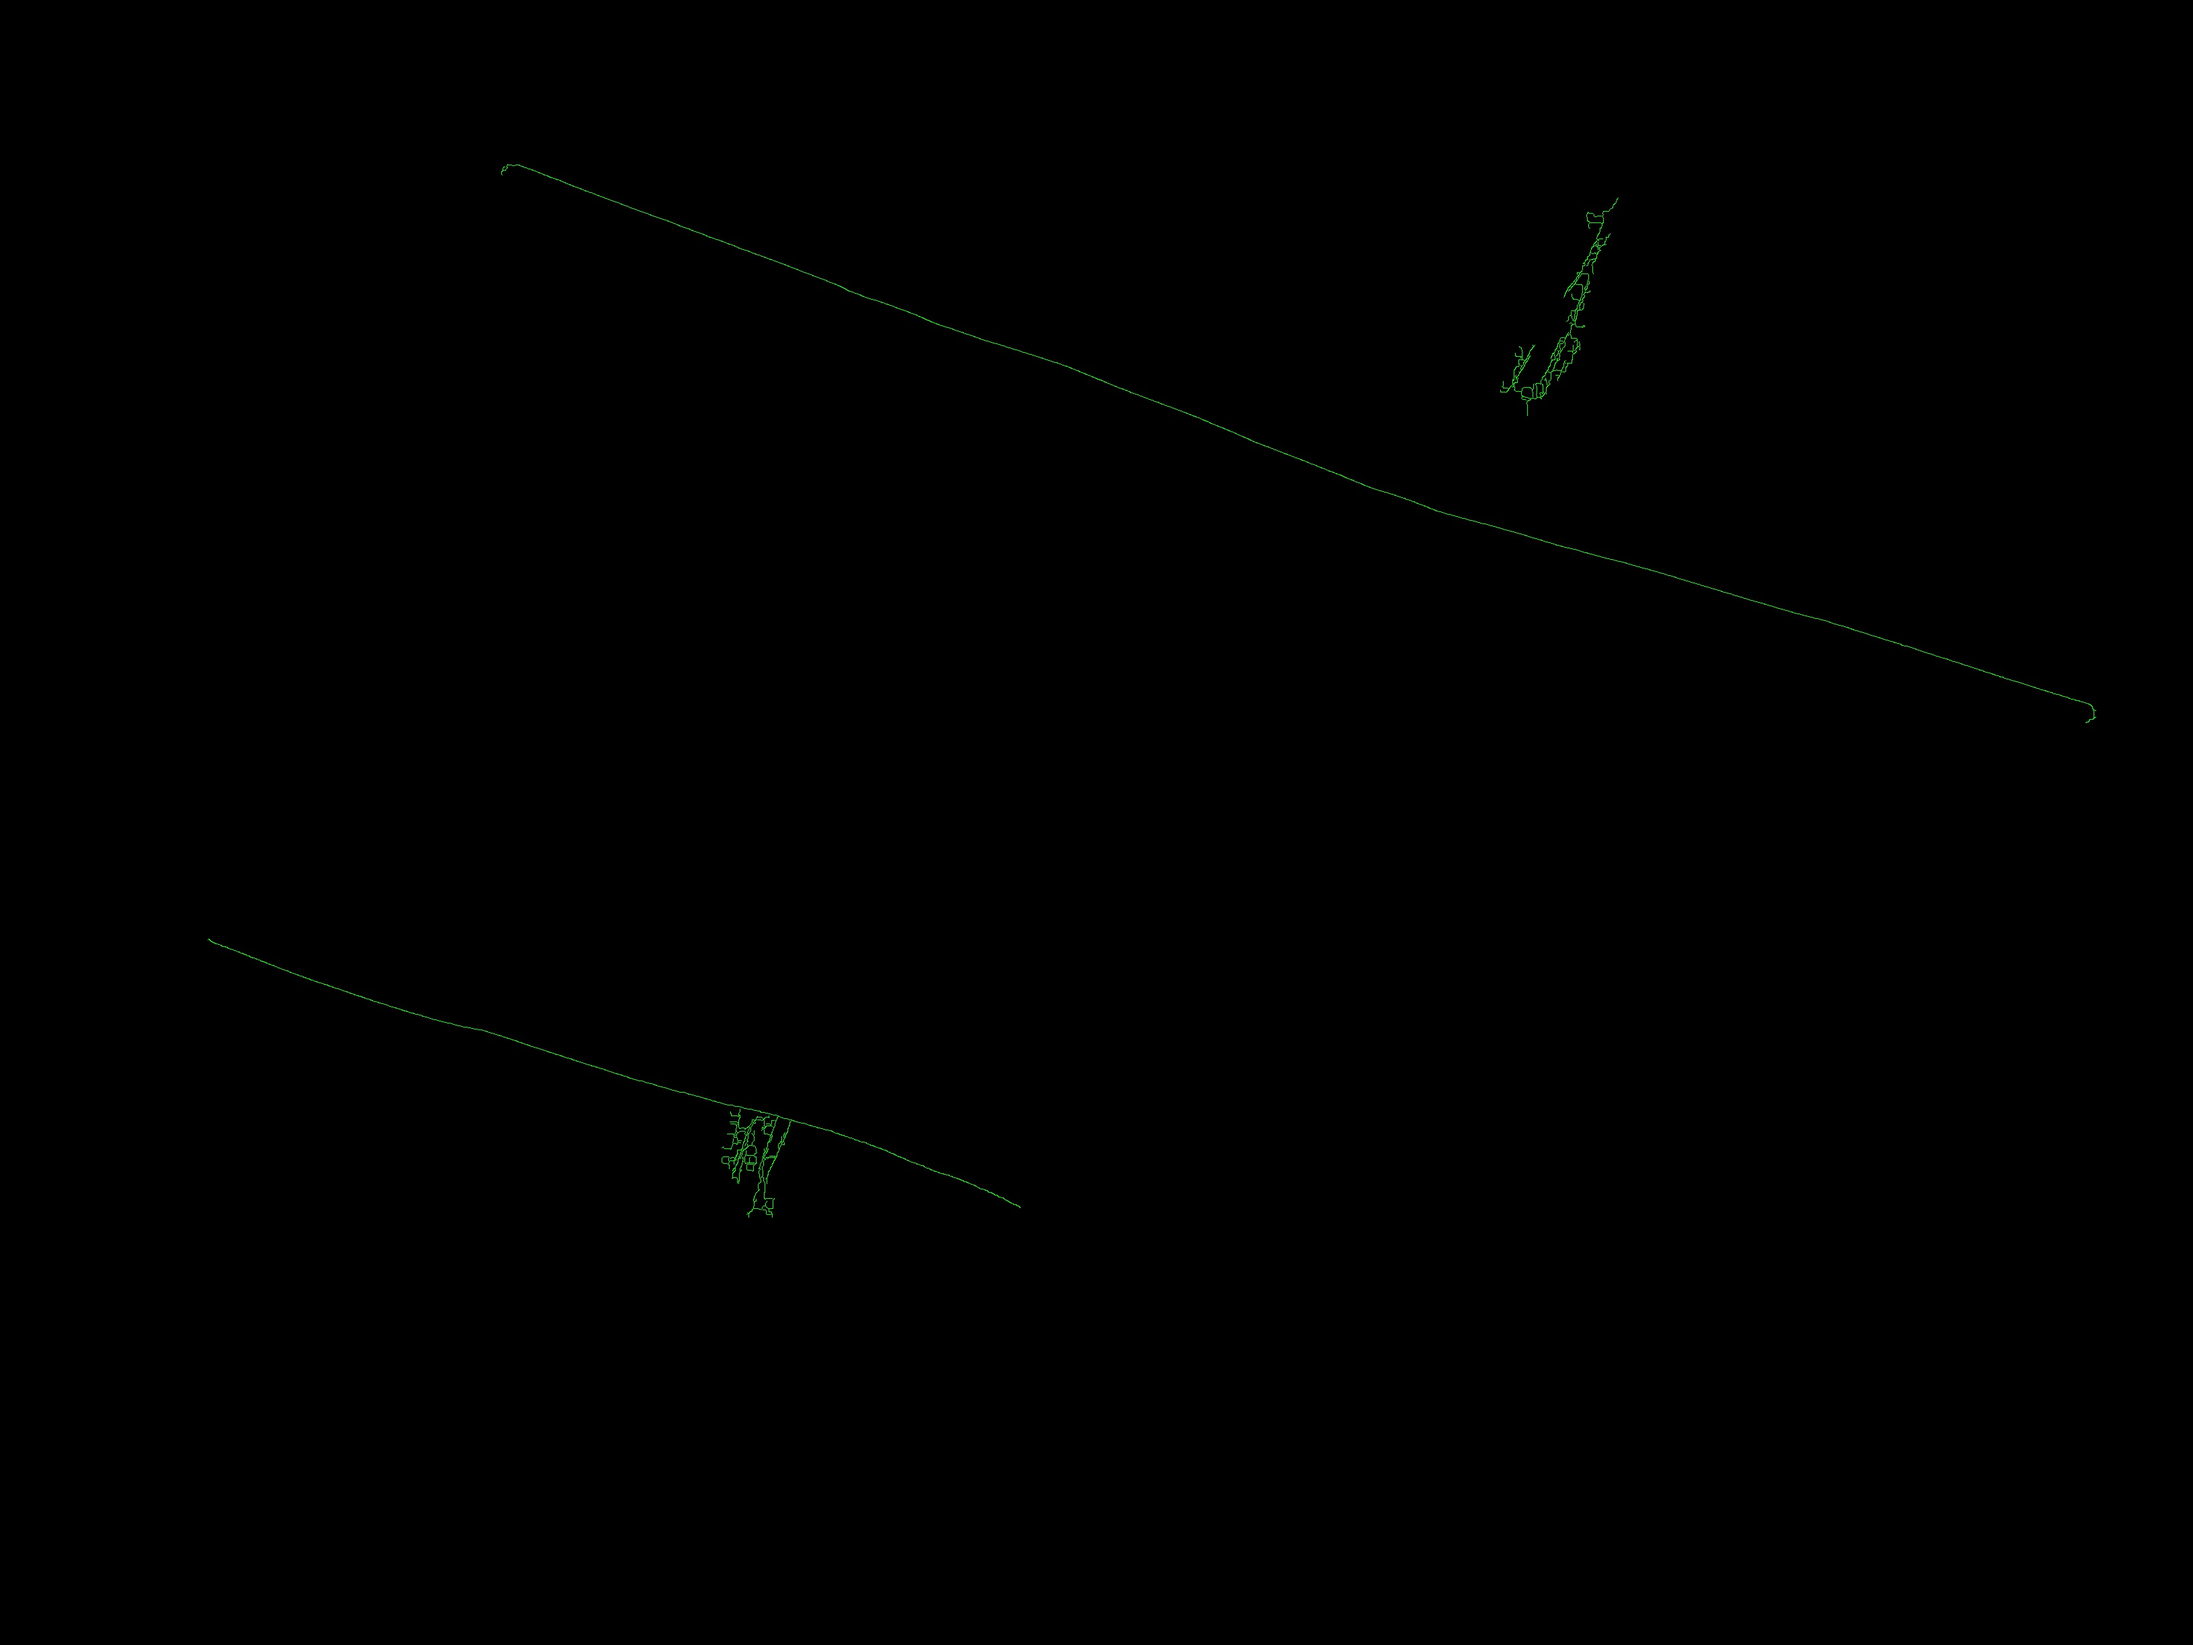
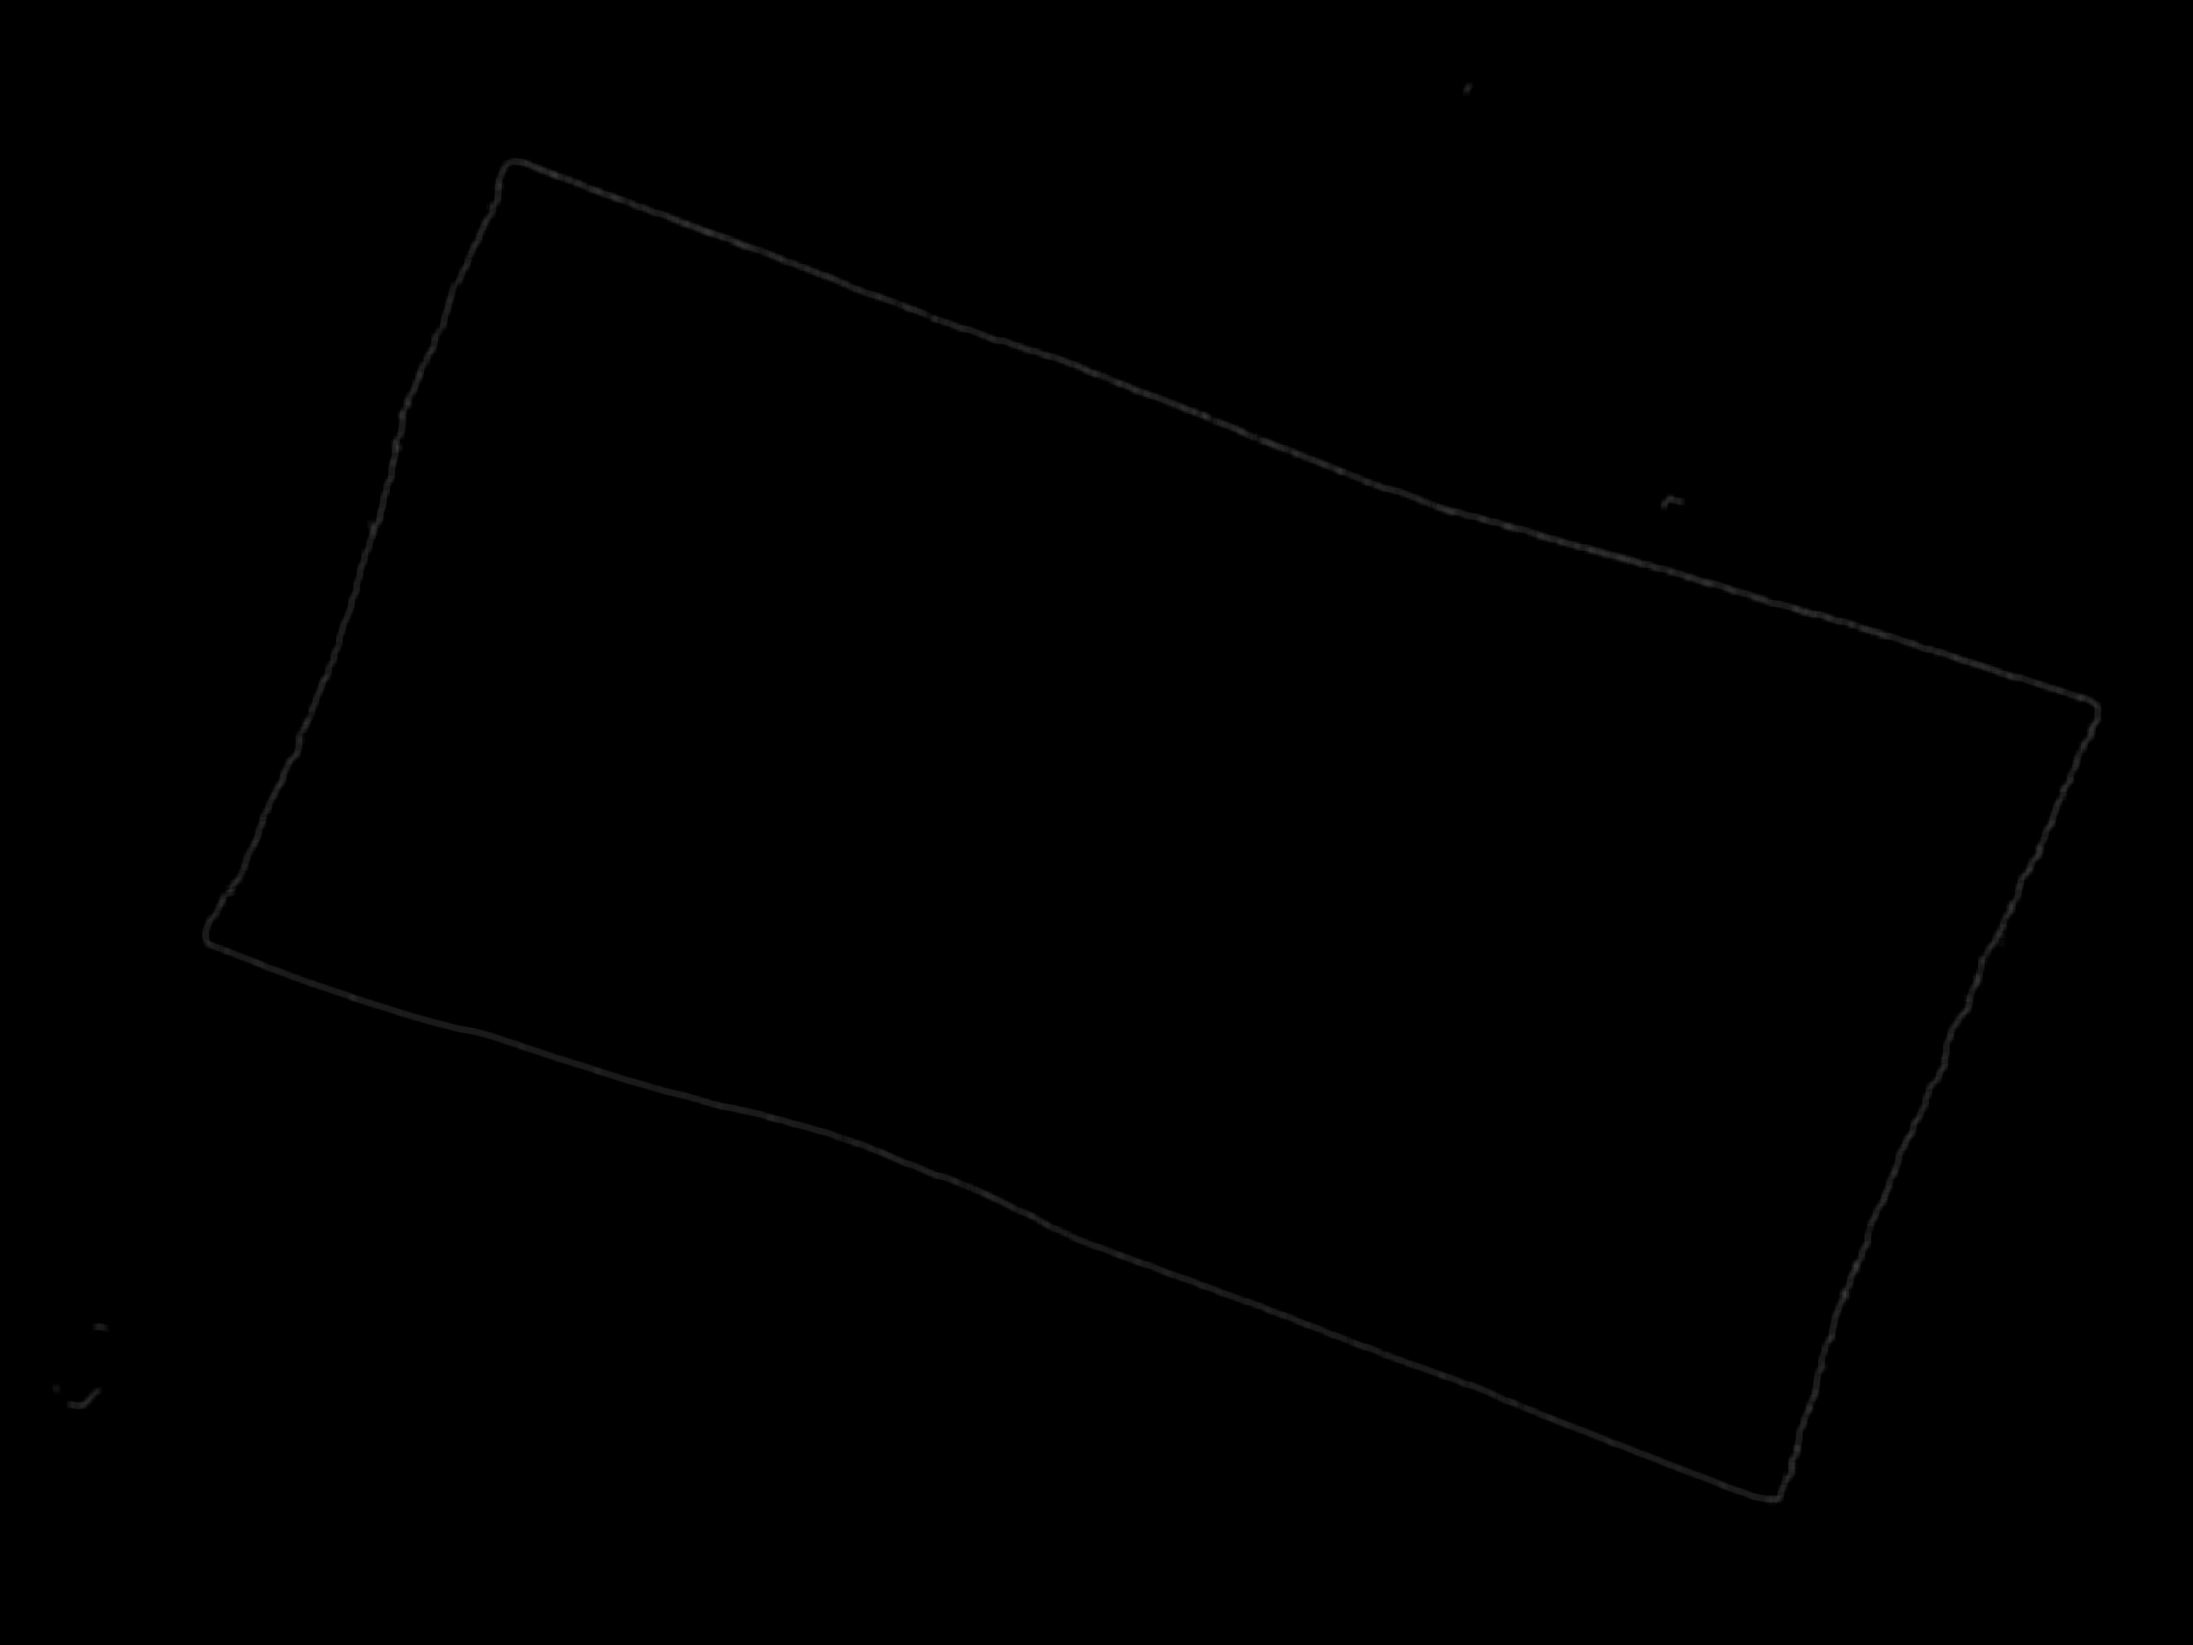
yep! for the first time -
thrust yourself only and dont give up!!! never!

youll make it!

may the force be with you

diff --git a/ocr/longest_closed.cc b/ocr/longest_closed.cc
@@ -18,21 +18,32 @@ using namespace std;
 void longest_closed()
 {
    Mat mat = imread( "./pics/heb.jpg");
+   // Mat mat = imread( "./pics/heb2.jpg");
+   // Mat mat = imread( "./pics/heb_new.jpg");
+   // Mat mat = imread( "./pics/pers.jpg");
+   // Mat mat = imread( "./pics/heb.ocv.working.jpg");
+   // Mat mat = imread( "./pics/tj.jpg");
+   // Mat mat = imread( "./pics/tj2.jpg");
 
    cv::cvtColor(mat, mat, CV_BGR2GRAY);
-   cv::GaussianBlur(mat, mat, cv::Size(3,3), 0);
-   // blur(mat, mat, Size(3,3));
-   cv::Mat kernel = cv::getStructuringElement(cv::MORPH_RECT, cv::Point(9,9));
+   // cv::GaussianBlur(mat, mat, cv::Size(3,3), 0);
+   // blur(mat, mat, Size(20,20));
+   cv::Mat kernel = cv::getStructuringElement(cv::MORPH_RECT, cv::Point(19,19));
    cv::Mat dilated;
    cv::dilate(mat, dilated, kernel);
+   blur(dilated, dilated, Size(10,10));
+
+   cv::imwrite( "./img_pre/long0.jpg", dilated );
 
    cv::Mat edges;
-   cv::Canny(dilated, edges, 100, 3);
+   cv::Canny(dilated, edges, 40, 1);
+   blur(edges, edges, Size(10,10));
 
-   cv::imwrite( "./img_pre/long0.jpg", edges);
+   cv::imwrite( "./img_pre/long1.jpg", edges);
 
    std::vector< std::vector<cv::Point> > contours;
-   cv::findContours(edges, contours, CV_RETR_LIST, CV_CHAIN_APPROX_NONE);
+   // cv::findContours(edges, contours, CV_RETR_LIST, CV_CHAIN_APPROX_NONE);
+   cv::findContours(edges, contours, CV_RETR_EXTERNAL, CV_CHAIN_APPROX_TC89_KCOS);
 
    std::cout << "contours count: " <<  contours.size()  << std::endl;
 
@@ -42,7 +53,7 @@ void longest_closed()
 
      len = cv::arcLength(contours[i], true);
 
-     if(len>3000){
+     if(len>0){
        std::cout << "closed line...: " << len << std::endl;
        contours_f1.push_back(contours[i]);
      }
@@ -51,7 +62,7 @@ void longest_closed()
    Mat drawing = Mat::zeros( mat.size(), CV_8UC3 );
    cv::drawContours(drawing, contours_f1, -1, cv::Scalar(0,255,0),1);
 
-   cv::imwrite( "./img_pre/long1.jpg", drawing);
+   cv::imwrite( "./img_pre/long2.jpg", drawing);
 }
 
 int main ( int argc, char** argv )
